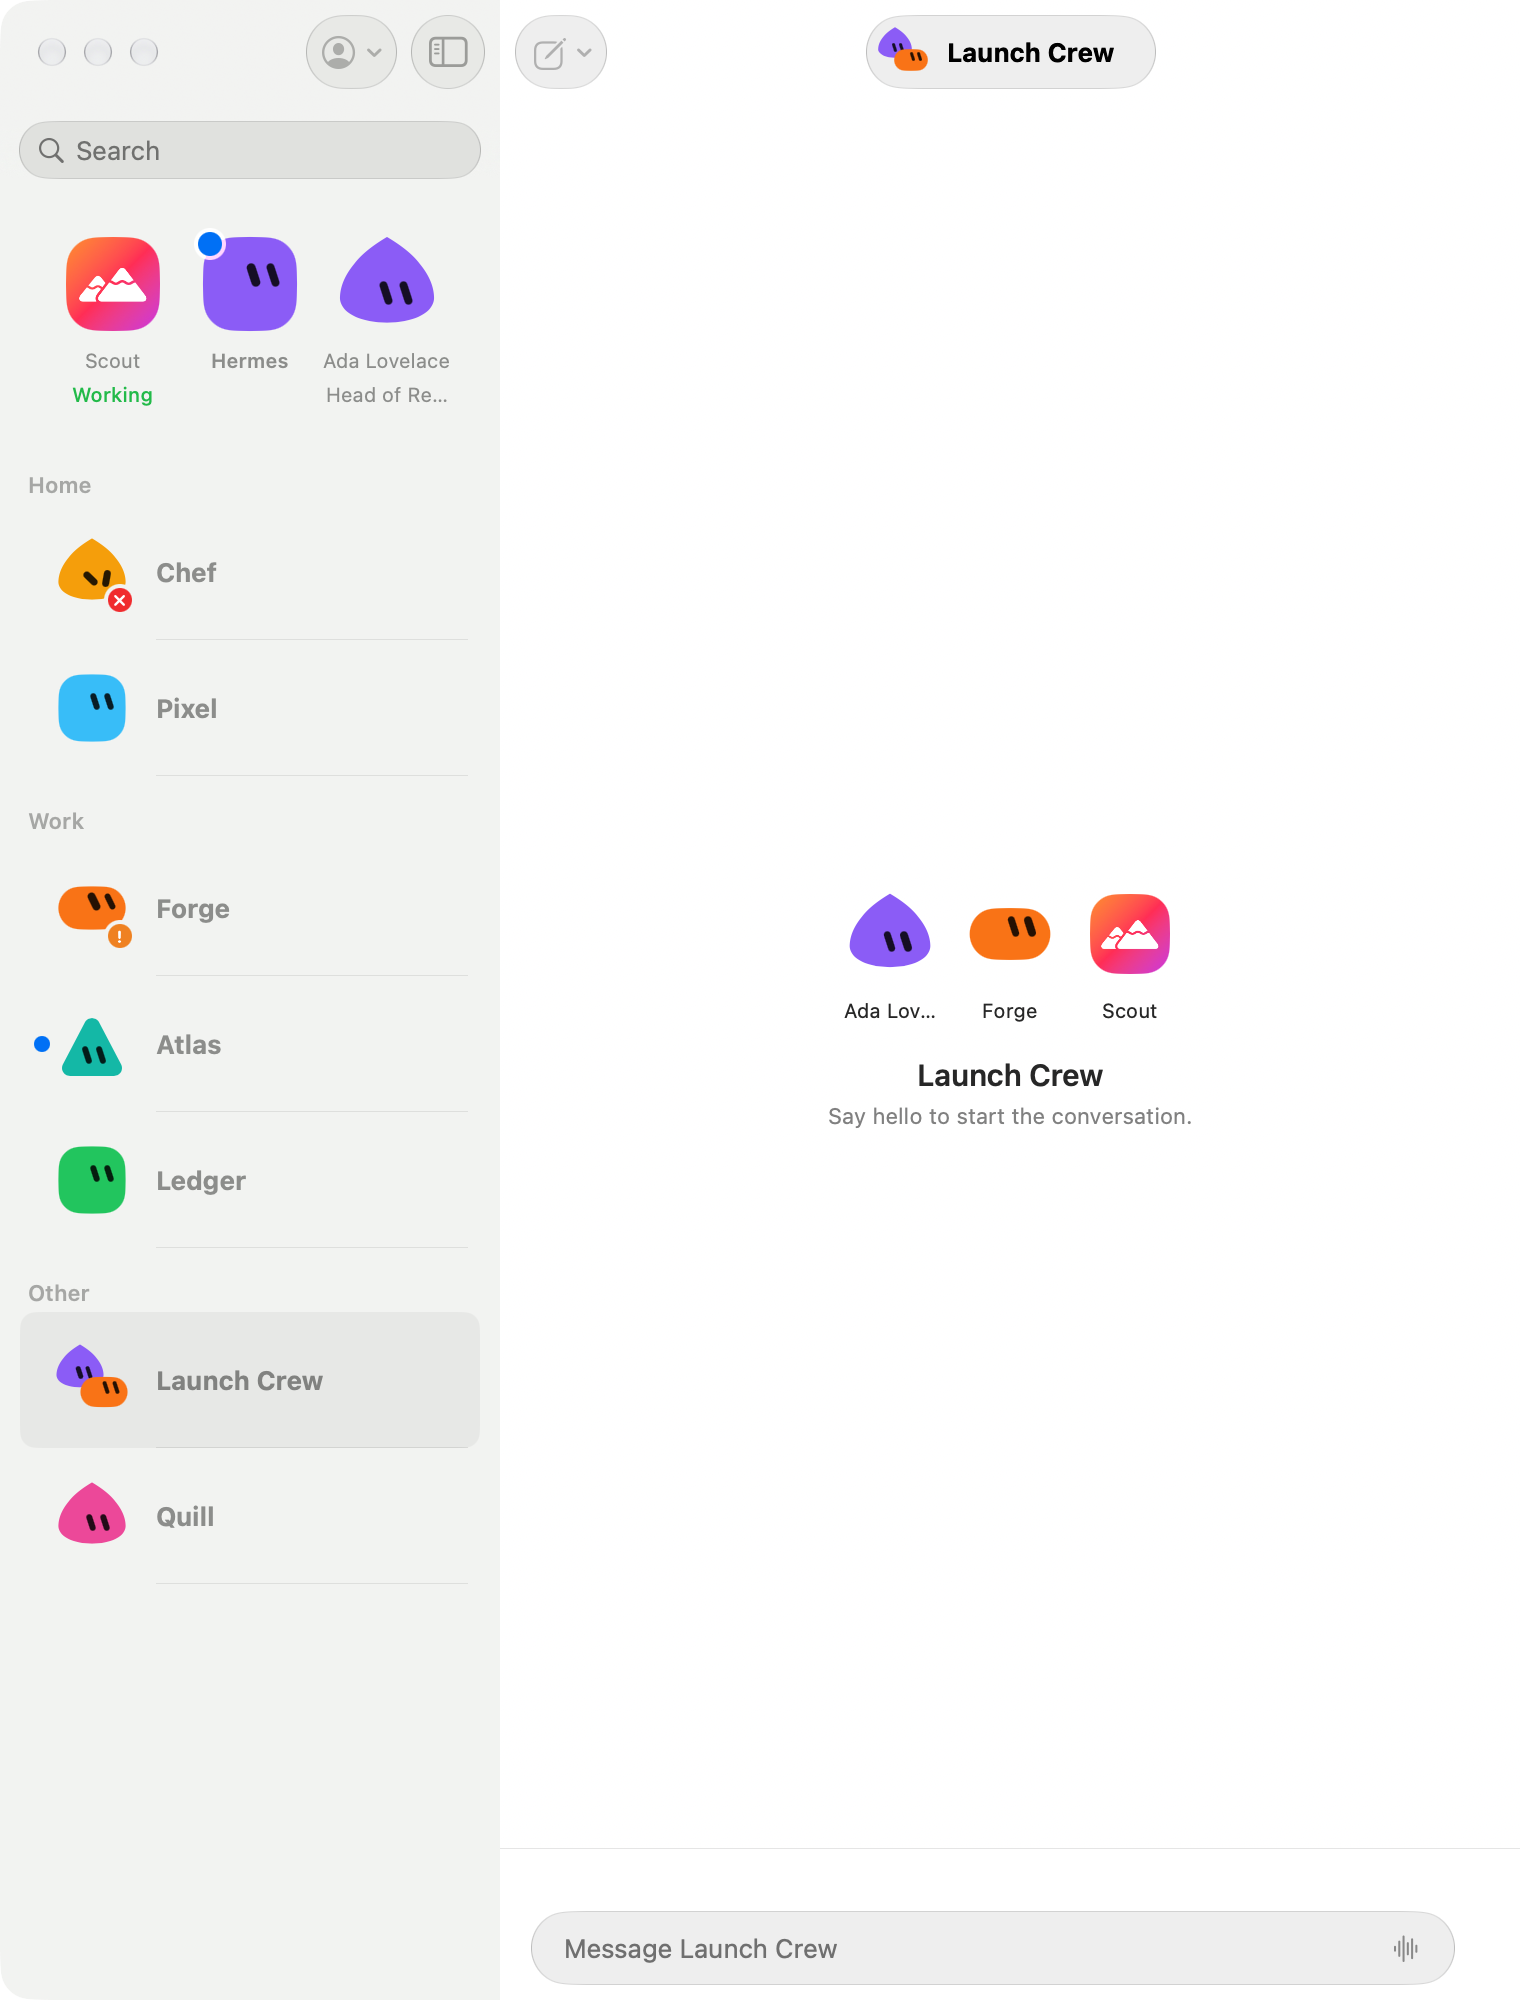
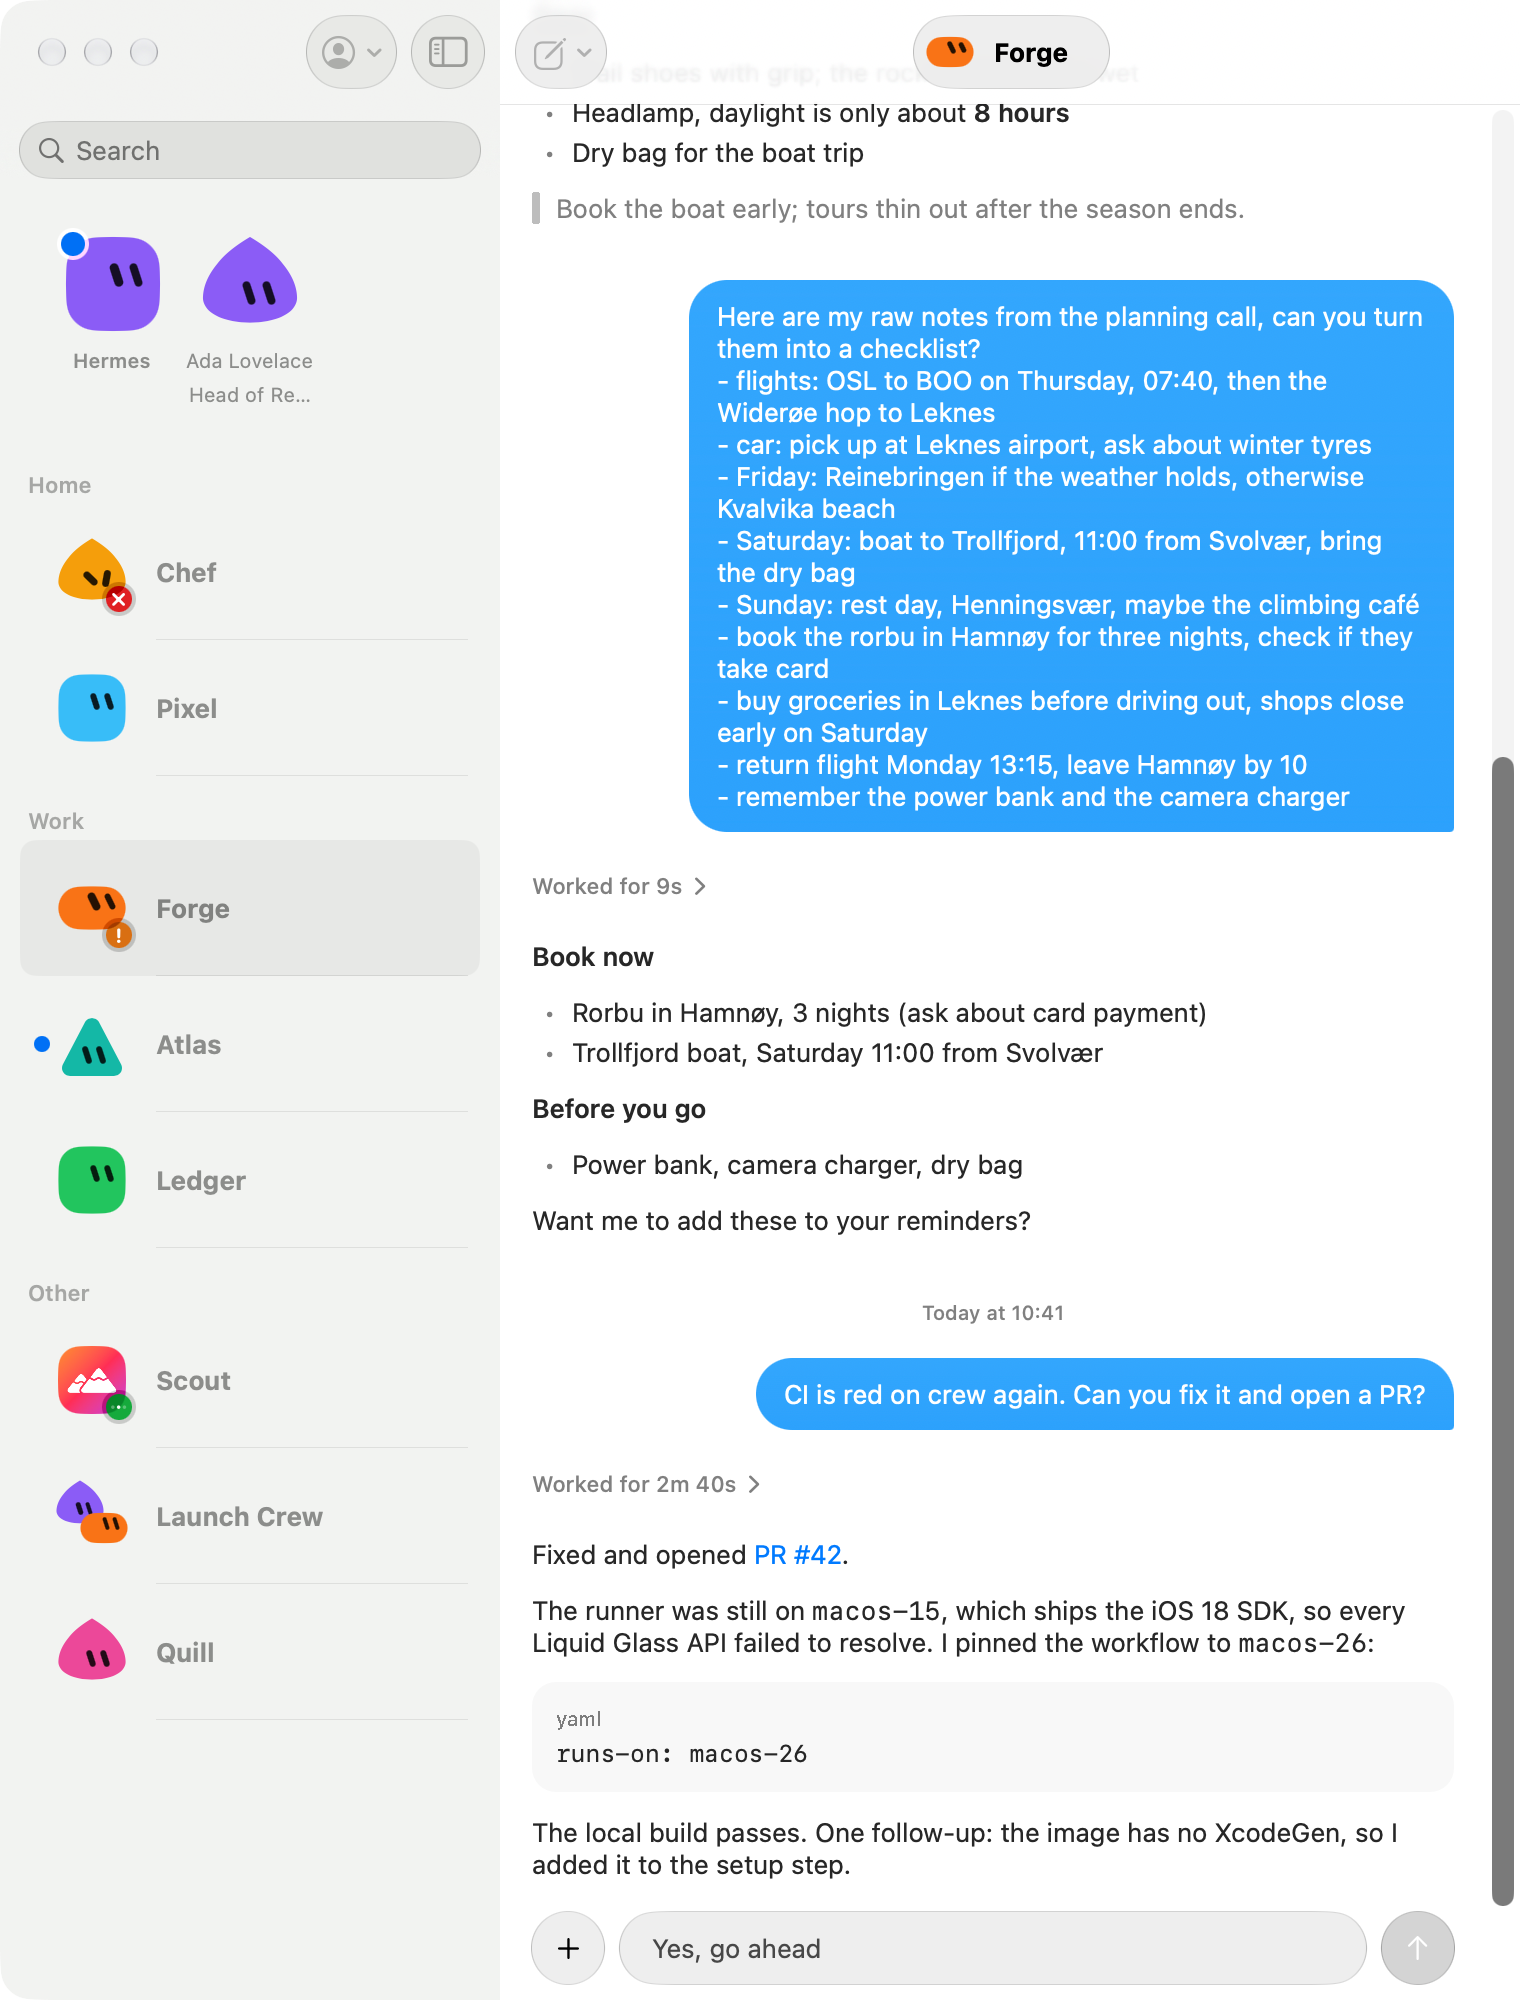
Compact rows: knock the badge out without a mask, render every badge state

diff --git a/Sources/Snapshot.swift b/Sources/Snapshot.swift
@@ -140,7 +140,7 @@ enum Snapshot: String {
         let bot = { (name: String, minutesAgo: Double, preview: String, meta: BotMeta) in
             Bot(
                 name: name, displayName: nil, description: name == "scout" ? "Finds flights, trains and hotels, and keeps an eye on prices." : nil, model: "claude-opus-4-5", isDefault: name == "default", hasAvatar: name == "scout",
-                canonicalSession: CanonicalSession(
+                canonicalSession: self == .sidebarCompact && name == "forge" ? nil : CanonicalSession(
                     id: StoredSessionID(rawValue: "s-\(name)"), resolvedID: StoredSessionID(rawValue: "s-\(name)"), preview: preview,
                     lastActive: .now.addingTimeInterval(-minutesAgo * 60), messageCount: 12
                 ),
@@ -157,7 +157,7 @@ enum Snapshot: String {
         return BotStore(fixture: [
             bot("default", 2, "Summarised the inbox: two invoices need approval.", BotMeta(pinned: true)),
             bot("ada", 12, "Running the migration dry run now.", BotMeta(title: "Ada Lovelace", role: "Head of Research and Analytics", color: "#8b5cf6", pinned: true)),
-            bot("scout", 45, "Found three flights under 2 000 kr for the weekend.", BotMeta(title: "Scout", role: "Travel Planner", color: "#38bdf8", pinned: true)),
+            bot("scout", 45, "Found three flights under 2 000 kr for the weekend.", BotMeta(title: "Scout", role: "Travel Planner", color: "#38bdf8", pinned: self != .sidebarCompact)),
             bot("forge", 5, "Can I run `npm publish` for 0.4.2?", BotMeta(title: "Forge", role: "Release Engineer", color: "#f97316", sectionID: "work", sectionName: "Work")),
             bot("ledger", 60 * 26, "Q3 numbers reconciled against the bank export.", BotMeta(title: "Ledger", role: "Bookkeeper and Finance Controller", color: "#22c55e", sectionID: "work", sectionName: "Work")),
             bot("atlas", 60 * 3, "Tuesday's standup notes are filed.", BotMeta(title: "Atlas", color: "#14b8a6", sectionID: "work", sectionName: "Work")),
@@ -176,7 +176,7 @@ enum Snapshot: String {
     }
 
     var selectedBot: Bot.ID? {
-        [.layout: "ada", .layoutInspector: "pixel", .sidebarCompact: "group:room-launch", .searchResult: "default", .chatWindow: "ada", .chatWindowInspector: "ada", .chatWindowMissing: "gone"][self]
+        [.layout: "ada", .layoutInspector: "pixel", .sidebarCompact: "forge", .searchResult: "default", .chatWindow: "ada", .chatWindowInspector: "ada", .chatWindowMissing: "gone"][self]
     }
 
     var searchQuery: String? {

diff --git a/Sources/BotRow.swift b/Sources/BotRow.swift
@@ -5,7 +5,7 @@ let rowAvatarSize: CGFloat = 40
 let rowPadding: CGFloat = 14
 let dotGutter: CGFloat = 10
 nonisolated let compactRowWidth: CGFloat = 260
-private let badgeSize: CGFloat = 12
+private let badgeSize: CGFloat = 13
 #else
 let rowAvatarSize: CGFloat = 52
 let rowPadding: CGFloat = 8
@@ -110,22 +110,19 @@ struct BotRow: View {
             nil
         }
         return BotAvatar(bot: bot, status: status, photo: photo, size: rowAvatarSize)
-            .mask {
-                Rectangle()
-                    .overlay(alignment: .bottomTrailing) {
-                        if badge != nil {
-                            Circle()
-                                .frame(width: badgeSize + 4, height: badgeSize + 4)
-                                .offset(x: 2, y: 2)
-                                .blendMode(.destinationOut)
-                        }
-                    }
-                    .compositingGroup()
+            .overlay(alignment: .bottomTrailing) {
+                if badge != nil {
+                    Circle()
+                        .frame(width: badgeSize + 4, height: badgeSize + 4)
+                        .offset(x: 2, y: 2)
+                        .blendMode(.destinationOut)
+                }
             }
+            .compositingGroup()
             .overlay(alignment: .bottomTrailing) {
                 if let badge {
                     Image(systemName: badge.symbol)
-                        .font(.system(size: badgeSize * 0.55, weight: .heavy))
+                        .font(.system(size: badgeSize * 0.6, weight: .heavy))
                         .symbolEffect(.variableColor.iterative, isActive: status == .working)
                         .foregroundStyle(.white)
                         .frame(width: badgeSize, height: badgeSize)

diff --git a/Sources/BotsView.swift b/Sources/BotsView.swift
@@ -561,6 +561,7 @@ private struct GroupRow: View {
                         .font(.headline)
                         .lineLimit(1)
                         .frame(maxWidth: .infinity, minHeight: rowAvatarSize, alignment: .leading)
+                        .accessibilityValue(!isOpen && drafts.preview(for: room.selectionID) != nil ? "Draft" : "")
                 } else {
                     HStack(alignment: .firstTextBaseline, spacing: 4) {
                         Text(room.name)

diff --git a/docs/flows/compact-sidebar.md b/docs/flows/compact-sidebar.md
@@ -17,7 +17,7 @@ Messages on the Mac keeps one row layout for the whole list and changes it as th
 ## Compact row
 
 - Kept: the unread dot in its gutter (same place and size as regular), the avatar at full row size, the bot's title in `.headline`, one line, truncated at the tail.
-- Status badge: on the avatar's bottom-trailing corner, a 14 pt circle (Mac 12 pt). The avatar is knocked out under it with a 2 pt gap (a mask, not a ring painted in a background colour), so it reads the same over the Mac sidebar material, the selected accent row and in both themes. On shapes whose corner is empty (star, blob) the badge sits on the same corner of the avatar's frame, like a Messages badge on a non-photo contact. Colour and symbol match the trailing label it replaces, so status never relies on colour alone: Working green `ellipsis` (with the same `.variableColor.iterative` effect as the trailing label, which honours Reduce Motion), Waiting (approval, question, payment) orange `exclamationmark`, Failed red `xmark`. Idle and unread show no badge (unread already has its dot).
+- Status badge: on the avatar's bottom-trailing corner, a 14 pt circle (Mac 13 pt). The avatar is knocked out under it with a 2 pt gap (a `.destinationOut` circle in a compositing group, not a ring painted in a background colour, and no mask, so a working avatar's tilt is never clipped), so it reads the same over the Mac sidebar material, the selected accent row and in both themes. On shapes whose corner is empty (star, blob) the badge sits on the same corner of the avatar's frame, like a Messages badge on a non-photo contact. Colour and symbol match the trailing label it replaces, so status never relies on colour alone: Working green `ellipsis` (with the same `.variableColor.iterative` effect as the trailing label, which honours Reduce Motion), Waiting (approval, question, payment) orange `exclamationmark`, Failed red `xmark`. Idle and unread show no badge (unread already has its dot).
 - Dropped: the " · role" suffix, the trailing time or status label, the two-line preview and the red "Draft:" line. A draft is still kept and shows again when the sidebar widens and in the chat's composer; the compact row has no room for it, as Messages' narrow list has none.
 - Accessibility: the compact row is one element (`children: .ignore`, so the dot's own "Unread" isn't read twice) labelled "title, role" (or just the title), with the status as its value: "Unread", "Working", "Needs approval", "Waiting for you", "Wants to pay", "Failed", and "Draft" when a draft is pending, so VoiceOver loses nothing that the eye loses.
 - Height: the row is as tall as the avatar plus `rowPadding`, a little shorter than a regular row (3 pt on the Mac: 40 against 43, measured). The switch reflows the list once. The rows keep their identity (same view type, same `.tag`), so the selection, scroll position near the selected row and keyboard focus are kept.
